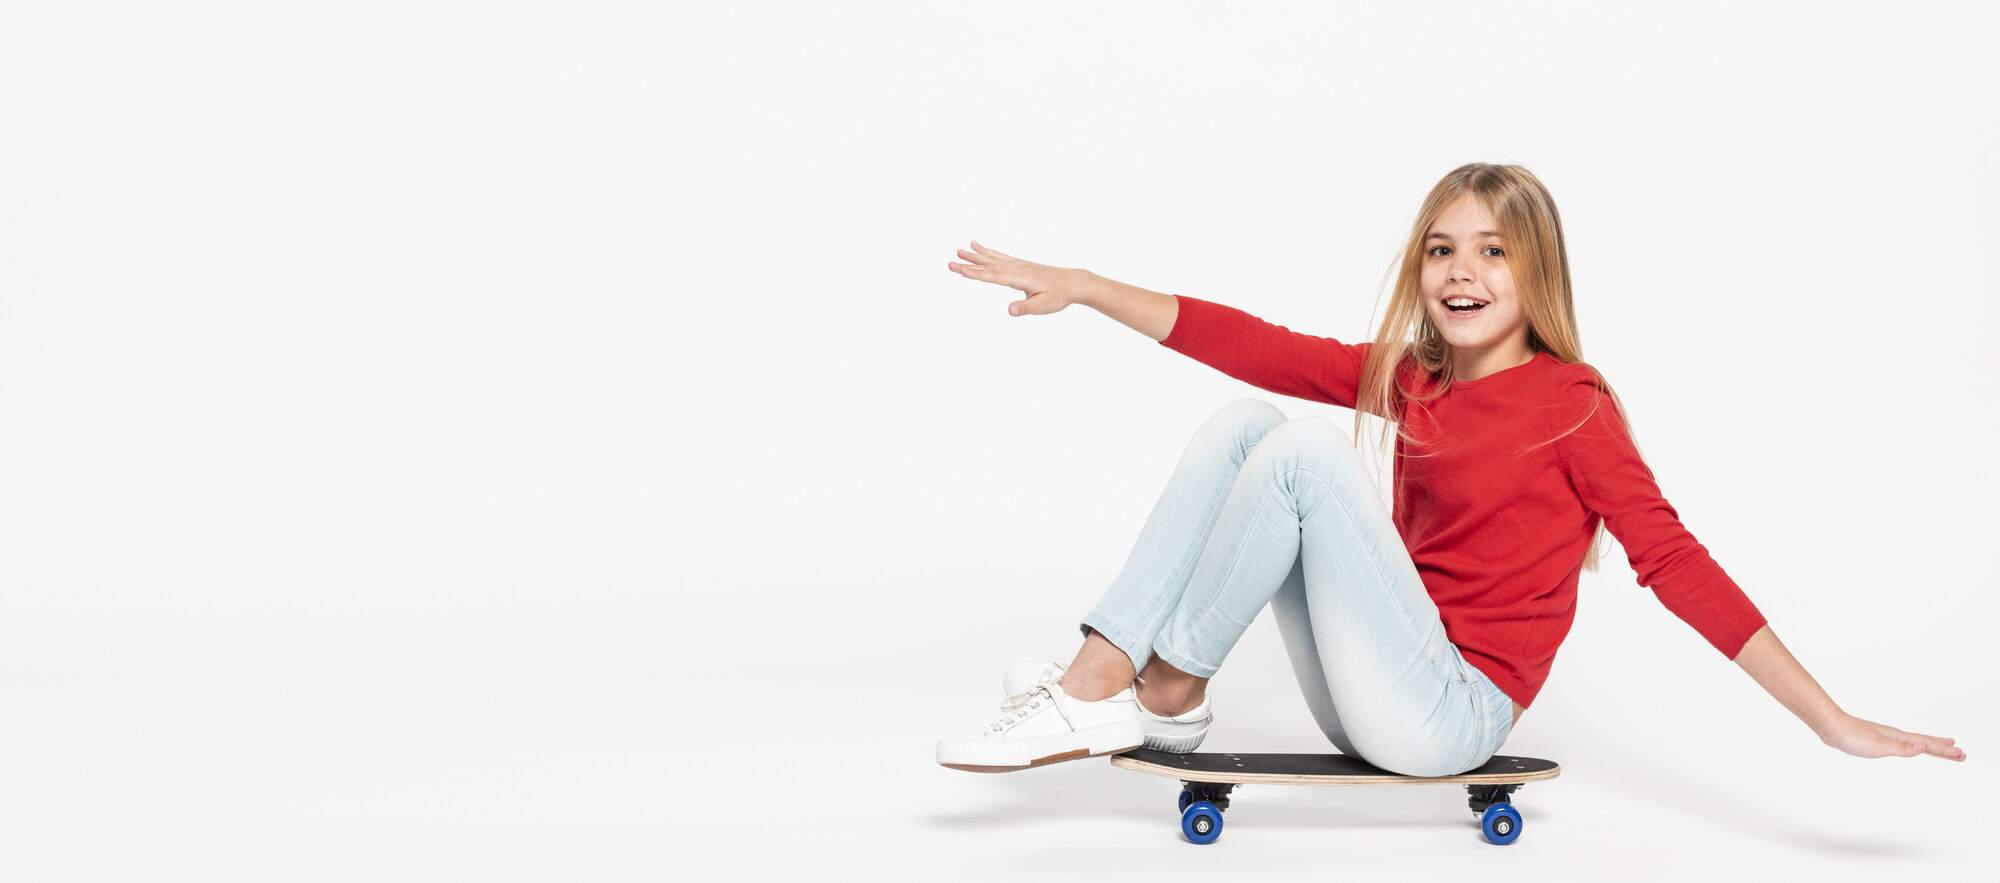
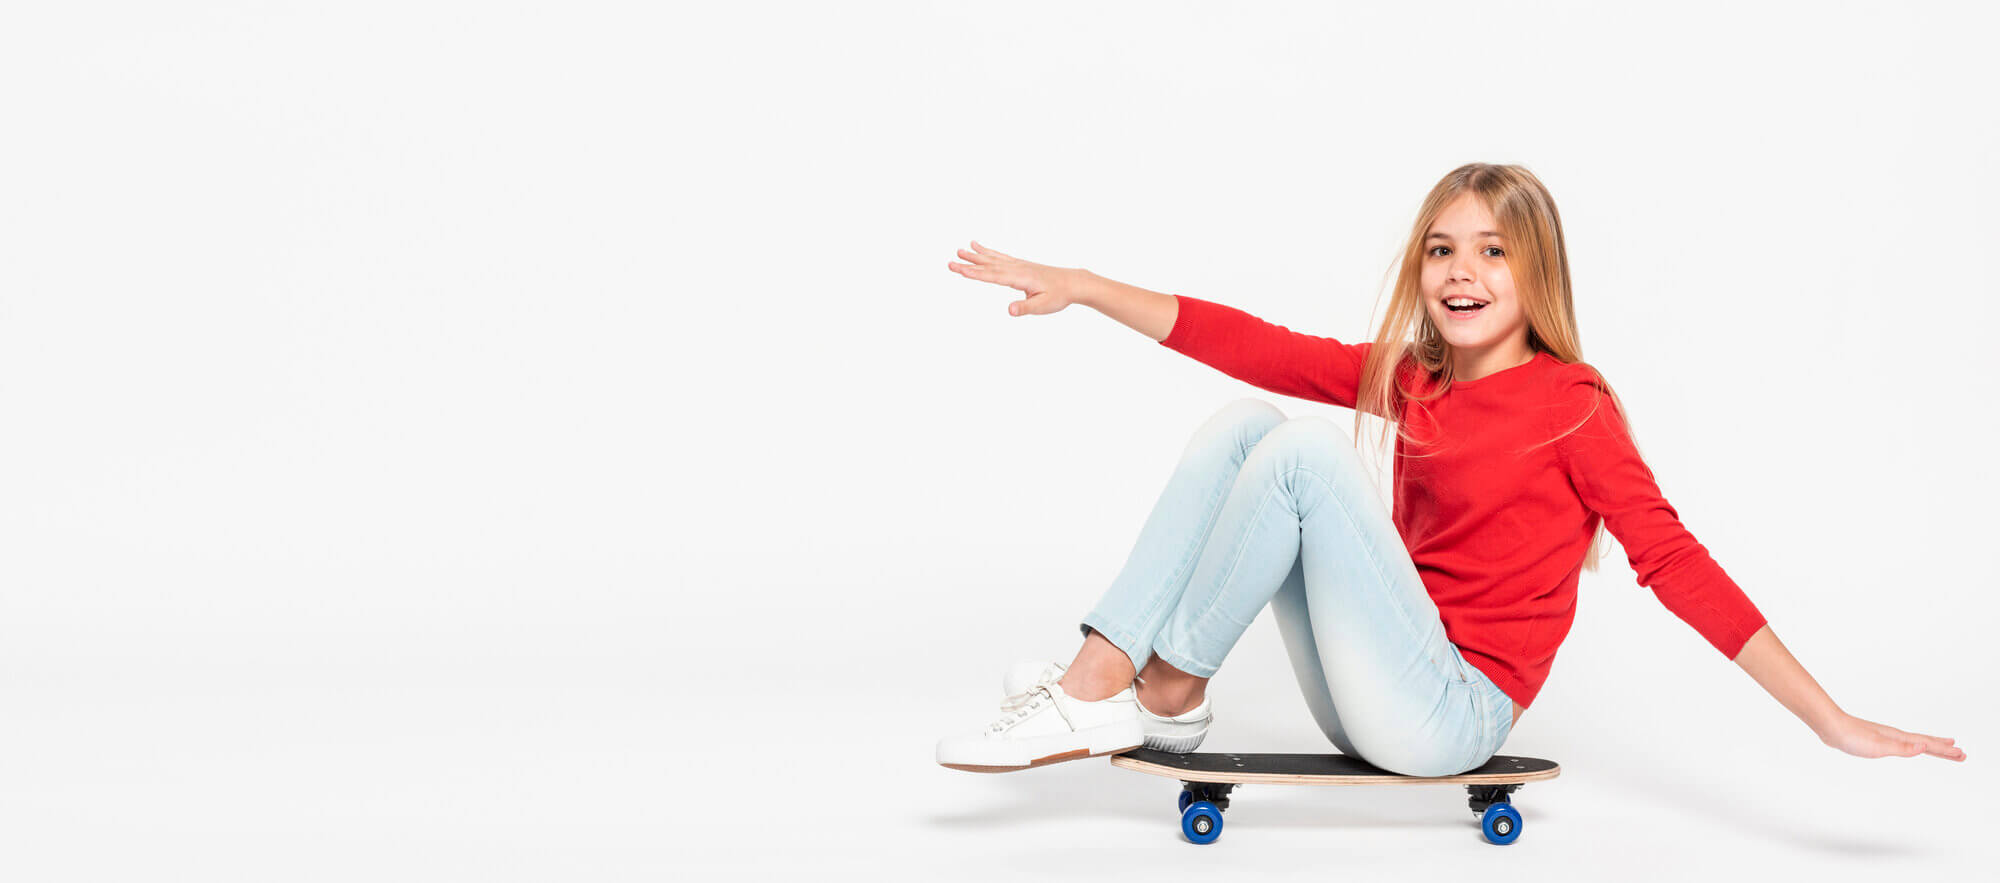
Replace all images with compressed images to increase site speed

diff --git a/index.html b/index.html
@@ -19,8 +19,6 @@
   <link rel="stylesheet" href="https://use.fontawesome.com/releases/v5.0.6/css/all.css">
   <link rel="stylesheet" href="assets/css/style.css">
  
-  
-
 
   <title>Schools Out ChildCare | Welcome </title>
 </head>

diff --git a/assets/css/style.css b/assets/css/style.css
@@ -396,8 +396,7 @@ h1{
 .contact-form h1 {
   font-size: 36px;
   font-weight: 600;
-  padding: 20px 0 10px 0;
-}
+ }
 
 
 .contact-form div {
